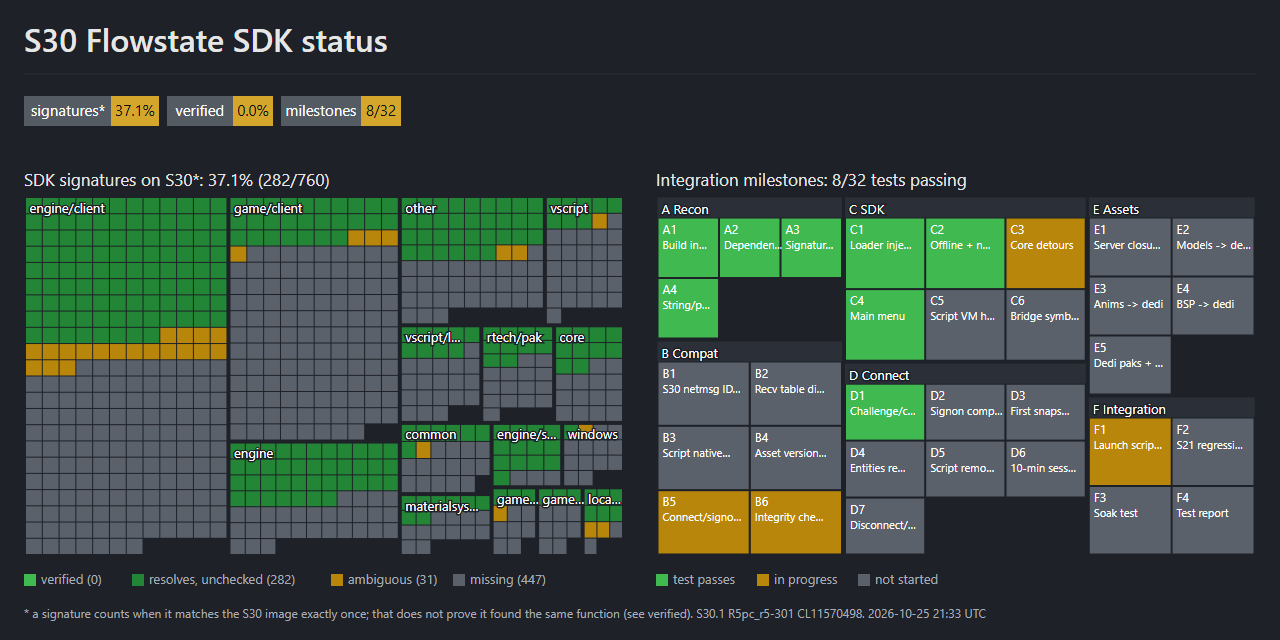
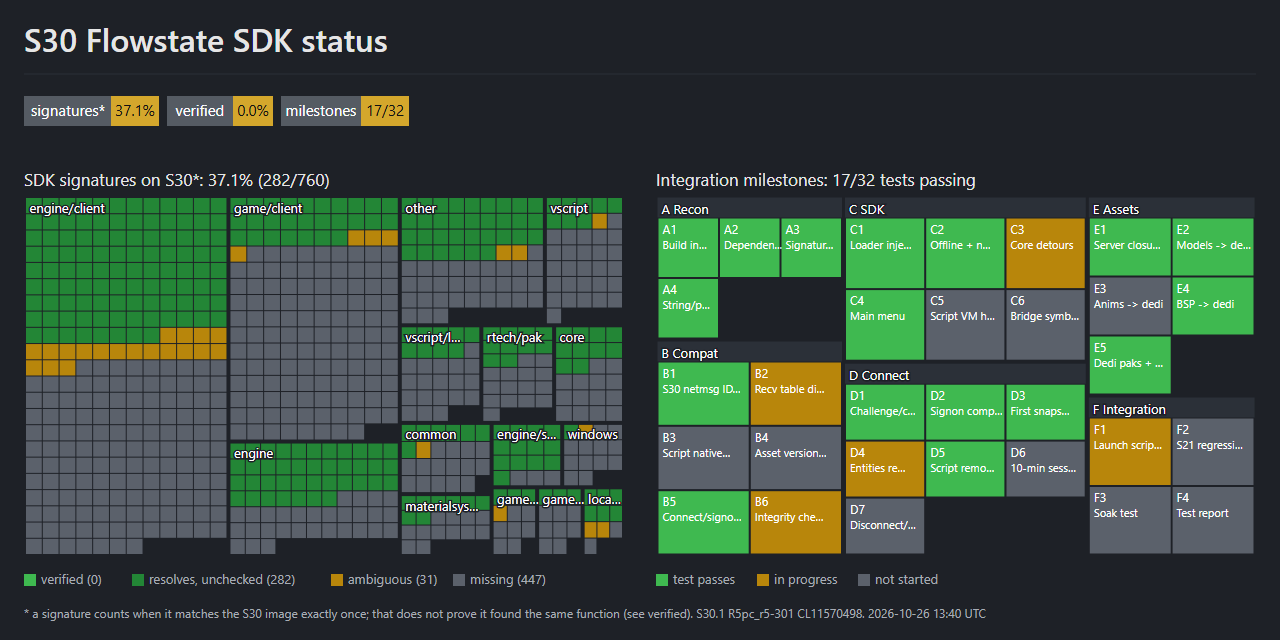
s30: progress, milestones 17/32
Signon, snapshots, script calls both ways and the dedi asset pipeline done; recv table diff and entity replication in progress.

diff --git a/s30/status/STATUS.md b/s30/status/STATUS.md
@@ -1,6 +1,6 @@
 # S30 port status
 
-Generated by `s30/tools/make_status.py` (2026-10-26 05:31 UTC). Image: `status.svg`.
+Generated by `s30/tools/make_status.py` (2026-10-26 13:40 UTC). Image: `status.svg`.
 
 ## Signatures
 
@@ -34,10 +34,10 @@ Signatures that match the S21 client image exactly once, by subsystem.
 | A3 | A Recon | Signature census | done | pattern_census.py run on S21 DX11/DX12, S3 dedi, S30 |
 | A4 | A Recon | String/param diff | done | strings_diff.py: netmsg, convar, launch-param, script-native families |
 | B1 | B Compat | S30 netmsg ID map | done | every S21 msgArray slot matched to an S30 slot (GetType + RFB body) |
-| B2 | B Compat | Recv table diff | todo | S30 client class/recvprop dump diffed against S21 |
+| B2 | B Compat | Recv table diff | wip | S30 client class/recvprop dump diffed against S21 |
 | B3 | B Compat | Script native diff | todo | S30 native registration table dumped; Flowstate client/UI calls checked |
 | B4 | B Compat | Asset version census | todo | per-type asset versions of S30 paks vs what the S3 dedi parses |
-| B5 | B Compat | Connect/signon trace | wip | S30 connectionless packets and signon sequence documented |
+| B5 | B Compat | Connect/signon trace | done | S30 connectionless packets and signon sequence documented |
 | B6 | B Compat | Integrity checks | wip | S30 code-integrity / import checks found or ruled out |
 | C1 | C SDK | Loader injects | done | patched S30 copy loads loader.dll -> client_s30.dll; S30_EarlyInit and SDK_Init both log |
 | C2 | C SDK | Offline + net guard | done | no non-loopback connection during boot (guard log + netstat) |
@@ -46,17 +46,17 @@ Signatures that match the S21 client image exactly once, by subsystem.
 | C5 | C SDK | Script VM hooks | todo | client/UI VMs compile Flowstate scripts without errors |
 | C6 | C SDK | Bridge symbols | todo | every NetObs symbol resolves and is verified on S30 |
 | D1 | D Connect | Challenge/connect | done | dedi logs the S30 client as connected |
-| D2 | D Connect | Signon complete | wip | client reaches SIGNONSTATE_FULL |
-| D3 | D Connect | First snapshot | todo | client decodes snapshots without desync |
-| D4 | D Connect | Entities replicate | todo | player, weapons, props created and moving |
-| D5 | D Connect | Script remotes | todo | S2C/C2S ScriptRemote calls run on both ends |
+| D2 | D Connect | Signon complete | done | client reaches SIGNONSTATE_FULL |
+| D3 | D Connect | First snapshot | done | client decodes snapshots without desync |
+| D4 | D Connect | Entities replicate | wip | player, weapons, props created and moving |
+| D5 | D Connect | Script remotes | done | S2C/C2S ScriptRemote calls run on both ends |
 | D6 | D Connect | 10-min session | todo | 10 minutes in game, no kick, no crash |
 | D7 | D Connect | Disconnect/rejoin | todo | disconnect and reconnect cleanly |
-| E1 | E Assets | Server closure | todo | list of S30 assets the dedi must load for the target content |
-| E2 | E Assets | Models -> dedi | todo | converted mdl load on the dedi (sample, then batch) |
+| E1 | E Assets | Server closure | done | list of S30 assets the dedi must load for the target content |
+| E2 | E Assets | Models -> dedi | done | converted mdl load on the dedi (sample, then batch) |
 | E3 | E Assets | Anims -> dedi | todo | arig/aseq convert with R5-AnimConv -i 30 -o 3, clips play |
-| E4 | E Assets | BSP -> dedi | todo | bspconv -dedi output loads, collision matches |
-| E5 | E Assets | Dedi paks + VPK | todo | RePak/revpk outputs load with zero missing-asset errors |
+| E4 | E Assets | BSP -> dedi | done | bspconv -dedi output loads, collision matches |
+| E5 | E Assets | Dedi paks + VPK | done | RePak/revpk outputs load with zero missing-asset errors |
 | F1 | F Integration | Launch scripts | wip | one command starts dedi + S30 client from the workspace |
 | F2 | F Integration | S21 regression | todo | S21 client + dedi still work with the unchanged install |
 | F3 | F Integration | Soak test | todo | 60-minute session, logs clean |

diff --git a/s30/PROGRESS.md b/s30/PROGRESS.md
@@ -127,7 +127,33 @@
 - Result: CONNECTED -> NEW -> PRESPAWN on the dedi; pdef, playlists, ServerInfo, all string tables, SendTables and
   ClassInfo processed; CreateDecoders fails on 609 SendProps S30 does not have or types differently.
 
+### 2026-10-26: stage 2, steps 4-8: in game on the S3 dedi (docs/12)
+- Tolerant decoders and precache sync: signon reaches SPAWN, then FULL.
+- Physics crash root cause: rmdlconv dropped BVH nodes of the last collision part; fixed in the workspace clone,
+  `dedi_coll_gate.py` gates every converted model.
+- Snapshots: S3 40 re-encoded to S30 50 (header widths), first FULL from the DataBlock woken on the engine thread,
+  deltas acked through clc_ClientTick. The player spawns in game.
+- Input: S30 clc_Move transcoded to S3 46 (usercmd field order, tick/time restamp); the player walks.
+- Dedi data: pdef trimmed to the dedi's caps (modes, arenas out), battle pass off, S30-only persistent vars read as 0
+  with a log, S21-style script error logging on the client.
+
+### 2026-10-26: stage 2, steps 9-10: the rest of the protocol (docs/12, 13-17, 19)
+- Inventory of what the S21 client SDK does for the S3 dedi, with status per item (docs/13).
+- S2C: server-to-client script calls run on the S30 CLIENT/UI VMs, checked against S30's own registrations (a client
+  script error disconnects); user messages by handler name; TempEntities; native passthrough of the remaining
+  same-format messages; chat lanes; PlaylistChange applies the playlist by name.
+- C2S: the client's own messages (commands, SetConVar, chat, loot pickup, gamepad) serialized with their own writers
+  and relayed with the dedi's dedupe sequences. Client script calls go by name: S30 and the dedi number server
+  functions differently; the dedi's server.dll got a name-carried receive path (docs/15).
+- Dedi translates activities to S30's numbering (`+bridge_client_activity_set s30`), the client translates the
+  queued player activity (docs/14); weapon RNG seed derived the dedi's way.
+- Mantle boost stays S30-native (user decision): the dedi's boost now uses S30's values and class-mod gate (docs/19).
+- Dedi script fixes found on the way (originals `.s21`): heal-item numbering, challenges bool, abilities whose S30
+  classname comes from `weaponAsset` (Bloodhound/Fuse ultimates shut the game down).
+- mp_lobby: the S30 BSP is in the dedi's common VPK and reaches ready (docs/17); the S30 lobby menus need S30 playlist
+  schedules.
+- Verified in game: commands (say, noclip, give, infinite_ammo), script calls both ways, firing.
+
 ## Next action
-Stage 2, step 4: tolerant decoders, as the S21 bridge's (dummy RecvProp for unmatched props, WriteBlock skips it,
-unmatched arrays consumed per element); first map S30's decode/WriteBlock path. Then PlaylistOverrides,
-UpdateStringTable, the snapshot.
+Prop adapters for the S30 type changes (weapon mod bitfields, consumable counts, class mods, overheat), S30
+playlists from the client rpaks for the lobby menus, then a 10-minute session.
